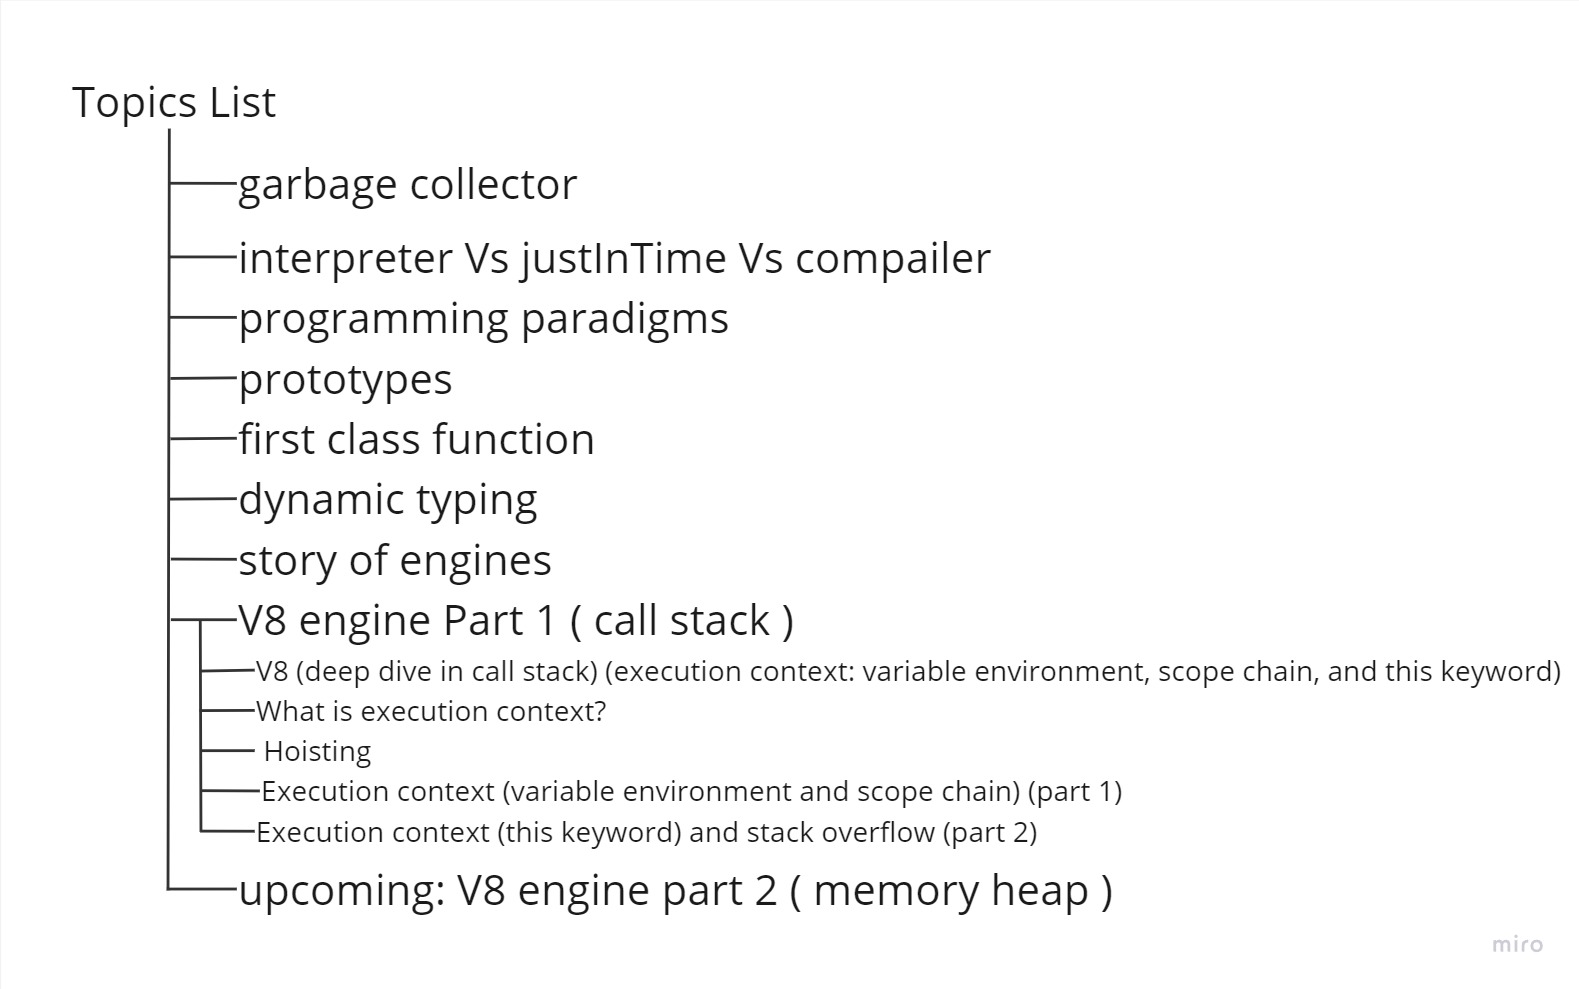
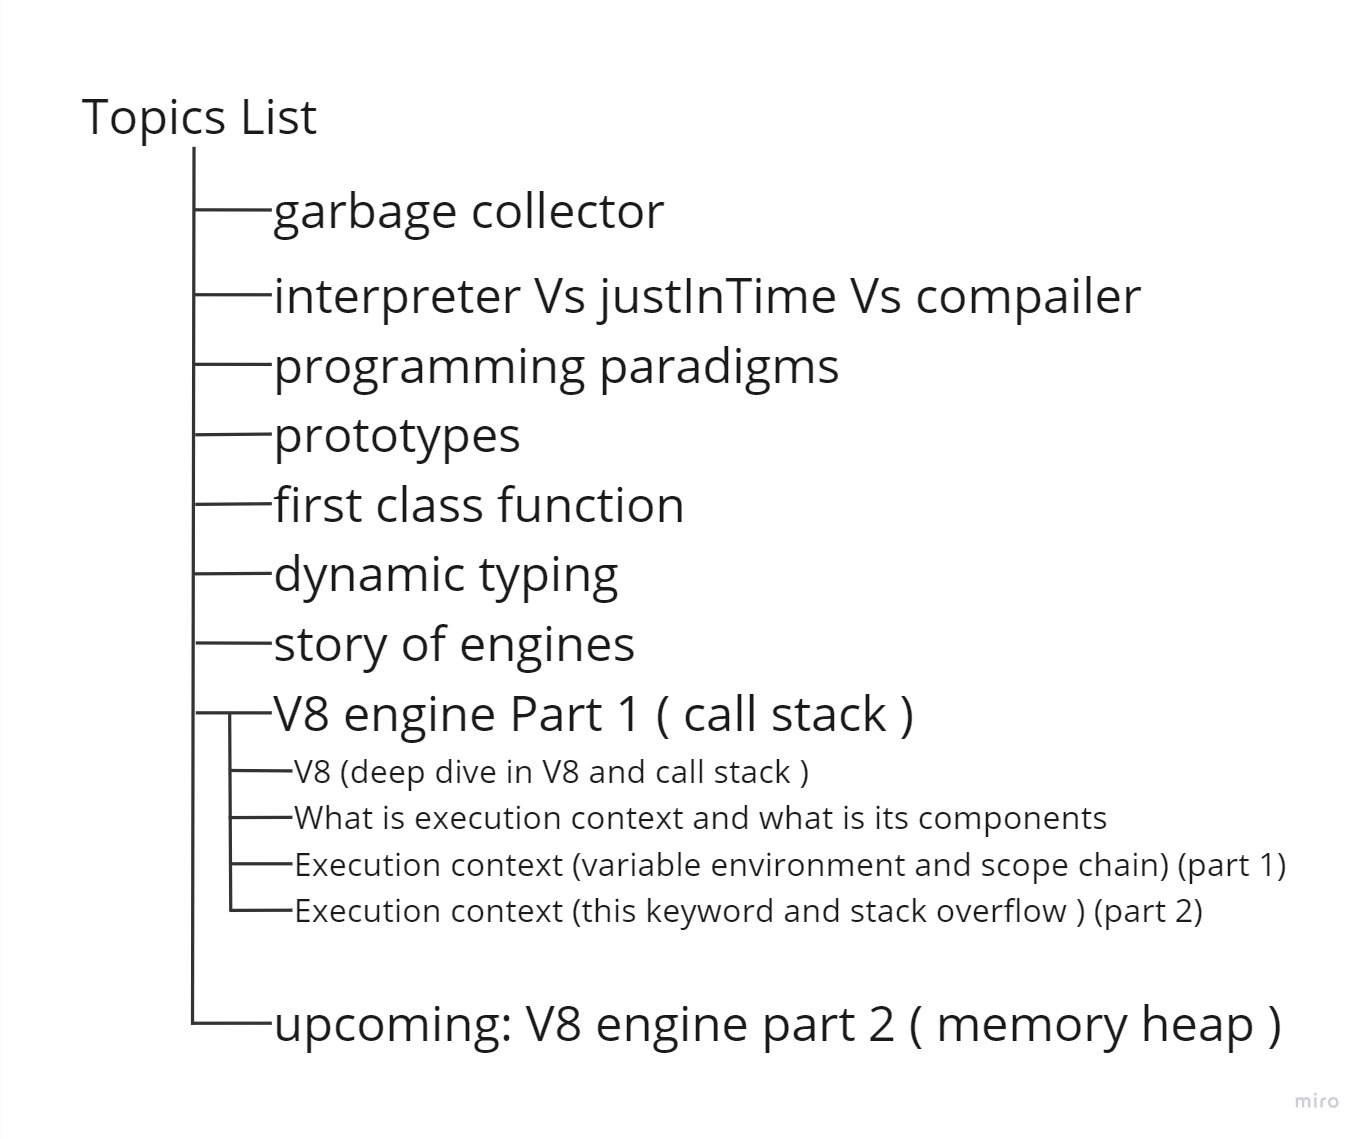
9th concept

diff --git a/callStack_execution_context.js b/callStack_execution_context.js
@@ -1,0 +1,177 @@
+/*
+
+                            we will go through the following points :
+|----------------------------------------------------------------------------------------|
+| 1- recap on call stack and deep dive into it
+| 2- what is excution context ? and what are its components ?
+| 3- stages of excution context
+| 4- examples on excution context
+| 5- what is variable environment ? and what are its components ?
+| 6- recap 
+|----------------------------------------------------------------------------------------|
+
+
+______________________________________________________________________________________________________________________________________________________First Part : 
+
+** recap on call stack 
+
+=> last time we talked about the call stack and we knew that that stack is a data structure that follows the LIFO (last in first out) principle
+=> and we use it to track our functions calls and where we are in the execution of the program
+=> and we called each item in the stack as a function BUT in fact it is not a function
+
+
+- AND IT IS TIME TO DEEP DIVE INTO THE CALL STACK
+
+=> first of all we need to know that each item in the call stack is not a fucntion it is an "excution context"
+=> now we can say that the call stack is a stack of excution contexts HA !!! 
+=> aslo we said that the call stack takes all the global code and put it in the stack and then it starts to look for functions calls and put them in the stack
+***** and as we said call stack is a stack of excution contexts so it has 2 types of excution contexts :
+1- global excution context : which is the default excution context that we have in the call stack and it is the first one
+2- function excution context : which is the excution context that we have when we call a function and it is the second one
+
+NOW YOU ARE ASKING YOURSELF WHAT IS EXCUTION CONTEXT RIGHT ? let's see :) 
+
+______________________________________________________________________________________________________________________________________________________Second Part : 
+
+** what is excution context ?
+
+=> excution context is an abstract concept of an environment where the javascript code is evaluated and executed 
+=> don't understand it ? let's simplify it
+=> we can say that excution context is a block which has the information about the code that is running 
+
+ex : 
+=> if we have 2 functions in our code then we have 2 blocks ( excution contexts ) in our stack .
+=> each one of them has the information about the code that is running 
+
+SO what kind of information does the excution context has ?
+let me think ? 
+- we must save the variables and functions that we will use in that code 
+- we should know what is the scope of the code because each block of code has its own scope
+- we need to know what is the value of the "this" keyword
+
+so we can list the main 3 points/properties that the excution context has as the following :
+1- variable environment : which has the variables and functions that we will use in that code
+2- scope chain : which has the information about the scope of each block of code 
+3- this keyword : which has the value of the "this" keyword
+
+- we will talk about the first point ( variable enviroment ) in this part and the other 2 points ( "this" key word , scope chain ) in the next part
+- so don't worry if you didn't understand the scope chain and the "this" keyword we will talk about them in the next parts
+
+BUT !!!!!!!!!!!!!!!! I NEED TO TELL YOU A SECRET UNTIL I MEET YOU IN THE NEXT PARTS
+=> do you know the arrow functions ? , arrow functions don't have their own "this" keyword , 
+=> we will know all the details in the next parts but for now just know that arrow functions don't have their own "this" keyword , okay ?
+
+______________________________________________________________________________________________________________________________________________________Third Part : 
+
+** stages of excution context 
+
+=> we can divide the excution context into 2 stages : ( memory allocation , excution)
+
+1- memory allocation : 
+
+=> it reserves a space in the memory for the variables and functions that we will use in that code
+=> variables and functions are stored in the memory  
+=> ex : when we declare a variable in our code the memory allocation stage will reserve a space in the memory for that variable
+
+2- excution : which is the stage where the code is executed ( push excution context/pop excution context from the call stack)
+=> it excutes the code lines and function calls 
+=> ex : when we assign a value to a variable in our code the excution stage will assign that value to the variable
+
+______________________________Notes______________________________
+
+=> each stage run in order and we can't run the excution stage before the memory allocation stage 
+=> memory allocation stage is the stage where we find a space in our memory for the variables and functions that we will use in that code
+=> all reserved variables are assigned to undefined in the memory allocation stage 
+=> the excution stage is the stage where we assign the values to the variables and excute the code lines and function calls
+______________________________________________________________________________________________________________________________________________________Fourth Part : 
+
+** example on excution context 
+
+- I DON'T LIKE WASING TIME SO LET'S GO TO THE EXAMPLE
+
+                        do you see this code ? 
+|--------------------------------------------------------------|
+| let message = "hello";                                                  
+|
+| function sayMyName() { 
+|   console.log("Ahmed");
+| }
+|
+| console.log(message);
+| sayMyName(); // with the voice of Heisenberg
+|
+| output : hello Ahmed 
+|--------------------------------------------------------------|
+
+- very easy one right ? let's see what happens in the call stack :) 
+
+*** first of all we will memory allocation stage ( global excution context ) : 
+
+- lets get to work does the first line has any thing to save in the memory ?  
+- yes it has a variable called message so we will reserve a space in the memory for it and assign it to undefined
+- call stack : ( global excution context ) -> ( memory allocation stage ) -> ( message : undefined )
+- does the second line has any thing to save in the memory ?
+- yes it has a function called sayMyName so we will reserve a space in the memory all the function block 
+- call stack : ( global excution context ) -> ( memory allocation stage ) -> [ ( message : undefined ) , ( sayMyName : function block ) ]
+- does any line has any thing to save in the memory ?
+- no it doesn't so we will go to the excution stage
+
+*** second we will go to the excution stage : 
+- does the first line has any thing to excute ?
+- yes it has a variable called message so we will assign the value "hello" to it
+- call stack : ( global excution context ) -> ( memory allocation stage ) -> [ ( message : "hello" ) , ( sayMyName : function block ) ]
+- does the second line has any thing to excute ?
+- no it doesn't so we will go to the next line ( it is the function block we are looking for something to excute )
+- does the third line has any thing to excute ?
+- yes it has a console.log so we will excute it and print "hello" in the console -> output : hello
+- does the fourth line has any thing to excute ?
+- yes it has a function call so we will create a new excution context for it and push it into our call stack                                                       
+- stack : top = ( sayMyName excution context ) -> ( global excution context )  
+
+- we created a new excution context for the function call and we pushed it into our call stack right ? 
+- we must start with the memory allocation stage inside the function block and then go to the excution stage inside the function block 
+- is there any line of code inside the function has any thing to save in the memory ?
+- no it doesn't so we will go to the excution stage inside the fucntion block
+- does the first line of the function has any thing to excute ? 
+- yes it has a console.log so we will excute it and print "Ahmed" in the console -> output : Ahmed
+- does the function block has any thing to excute ?
+
+- no it doesn't and the function block is done so we will pop the excution context from the call stack and return to the global excution context
+- stack : top = ( global excution context )
+- last time we stopped at the calling of the function in the global excution context so we will continue from there
+- does the global excution context has any thing to excute ?
+- no it doesn't and the global excution context is done so we will pop it from the call stack
+- stack : top = empty
+- the call stack is empty and the program is done
+- output : hello Ahmed
+______________________________________________________________________________________________________________________________________________________Fifth Part : 
+
+** what is variable environment ?
+
+=> as we said before the excution context has 3 main properties one of them is the variable environment
+=> so let's take a close look at it
+
+***** simply we can divide the variable environment into 3 parts :
+1- the variables : which has the variables that we will use in that code
+2- the functions : which has the functions that we will use
+3- the arguments object : which has the arguments that code uses 
+
+=> we will talk about them in the next parts but for now just know that the variable environment has 3 parts ( variables , functions , arguments object )
+
+______________________________________________________________________________________________________________________________________________________Sixth Part : 
+
+** recap
+
+*each item in the call stack is not a fucntion or item it is an "excution context"
+*the excution context is a block which has the information about the code that is running
+*the excution context has 3 main properties : 
+    1- variable environment : has 3 parts ( variables , functions , arguments object ) ( will be discussed in the next parts )       
+    2- scope chain  ( will be discussed in the next parts )                                                                     
+    3- "this" keyword  ( will be discussed in the next parts )       
+
+
+
+IF THIS EXPLANATION WAS HELPFUL PLEASE GIVE ME A STAR :)
+
+*/
+

diff --git a/README.md b/README.md
@@ -30,3 +30,5 @@ link : https://github.com/ahmedabdelaziz5/key-concepts-in-JS/blob/master/JS_engi
 #### 8- deep dive in V8 part 1 (call stack)
 link : https://github.com/ahmedabdelaziz5/key-concepts-in-JS/blob/master/deepDiveV8_callStack.js
 
+#### 8.1- deep dive in V8 -> call stack -> execution context
+link : https://github.com/ahmedabdelaziz5/key-concepts-in-JS/blob/master/callStack_execution_context.js
